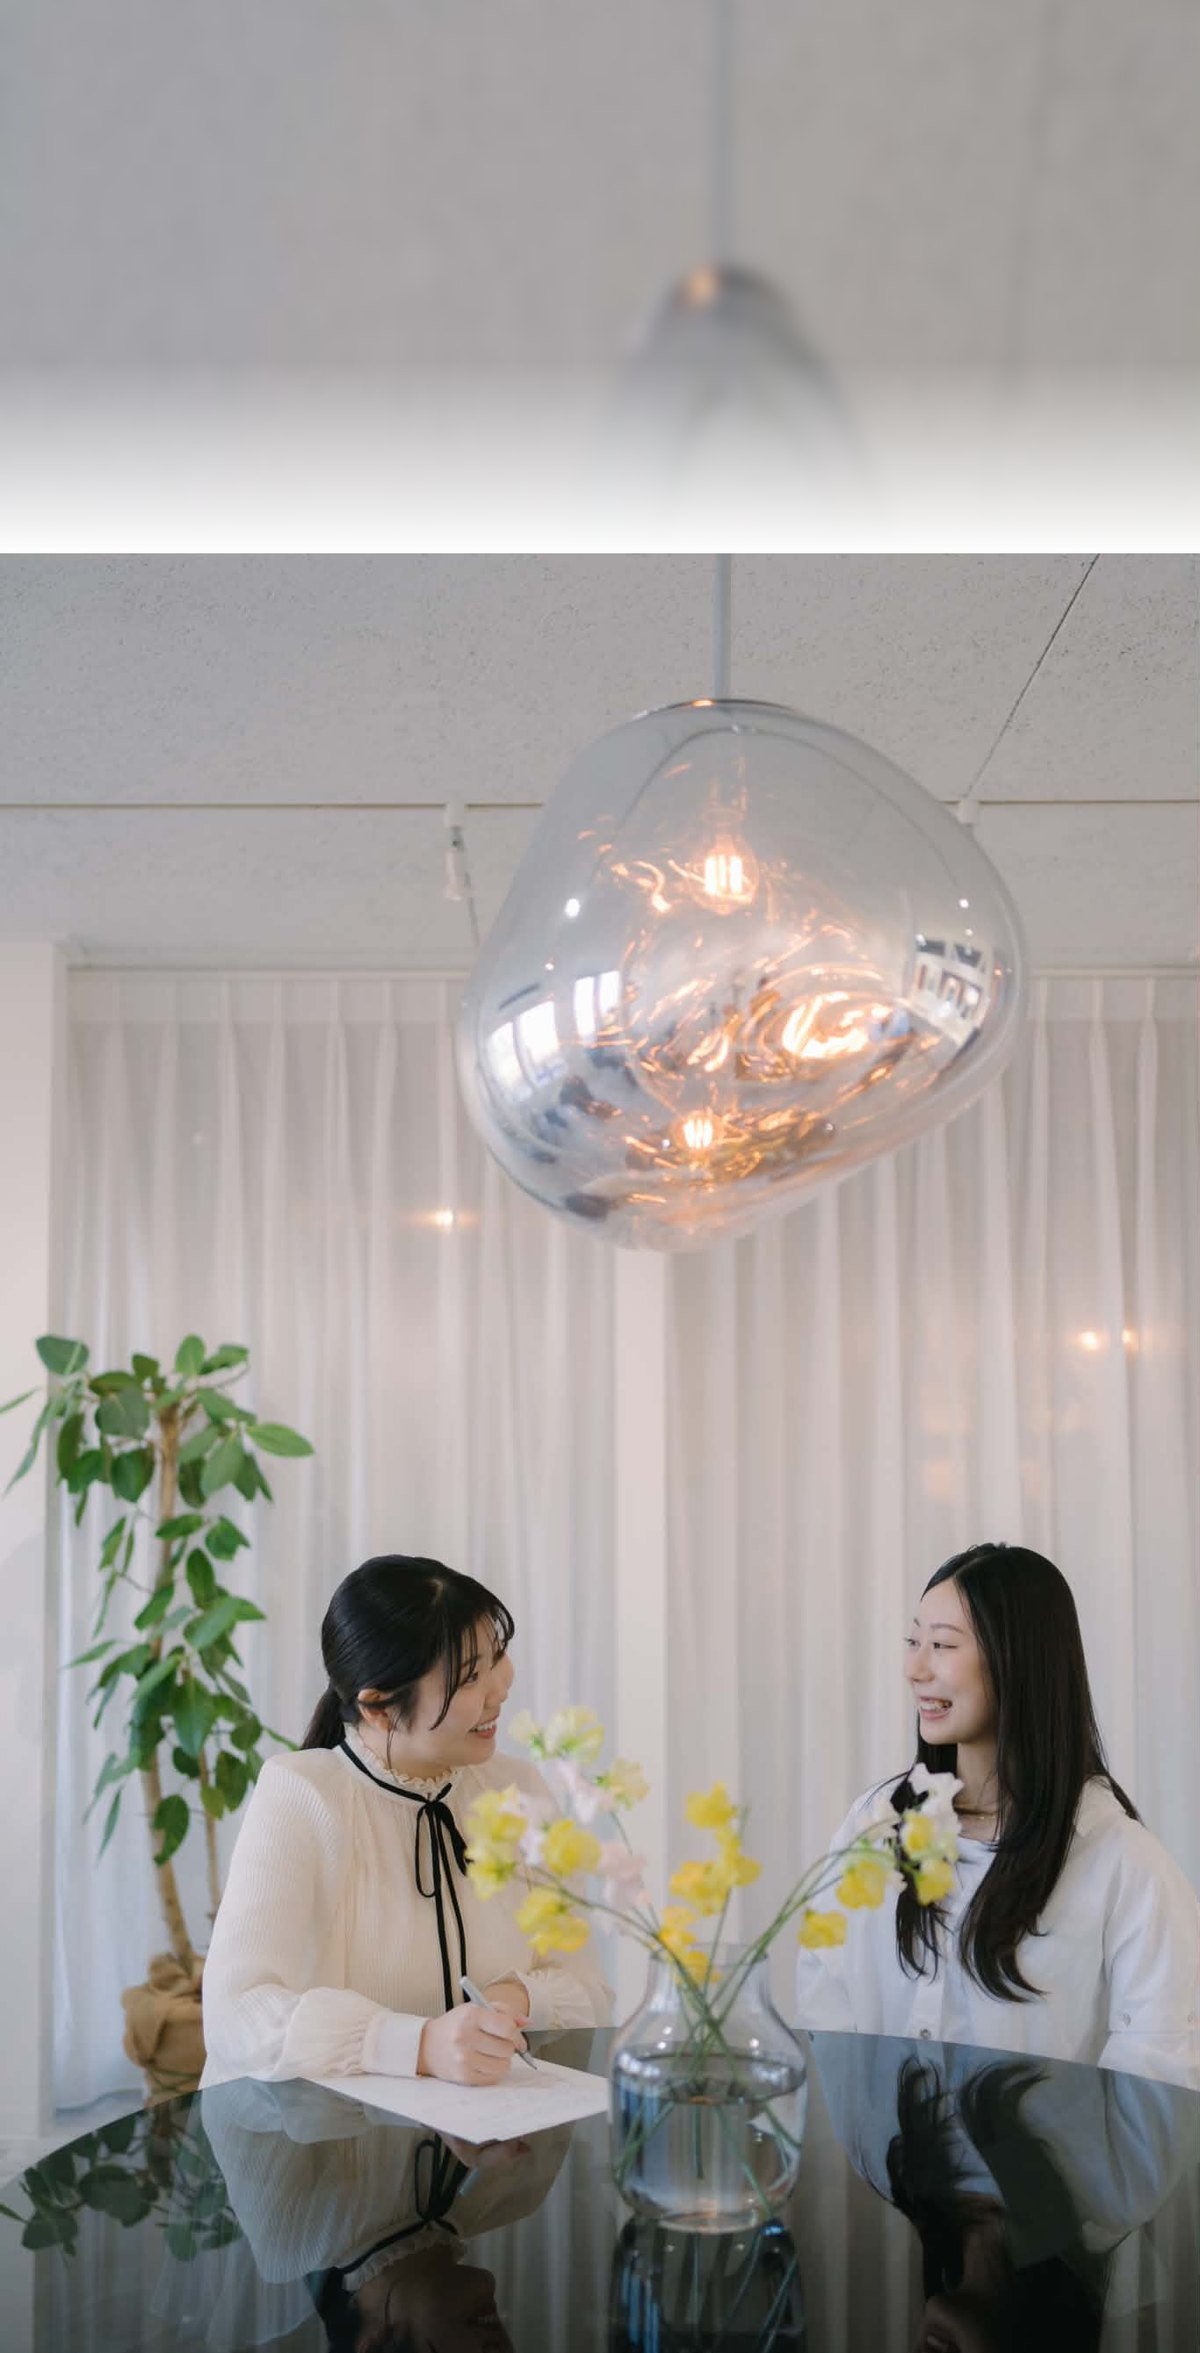
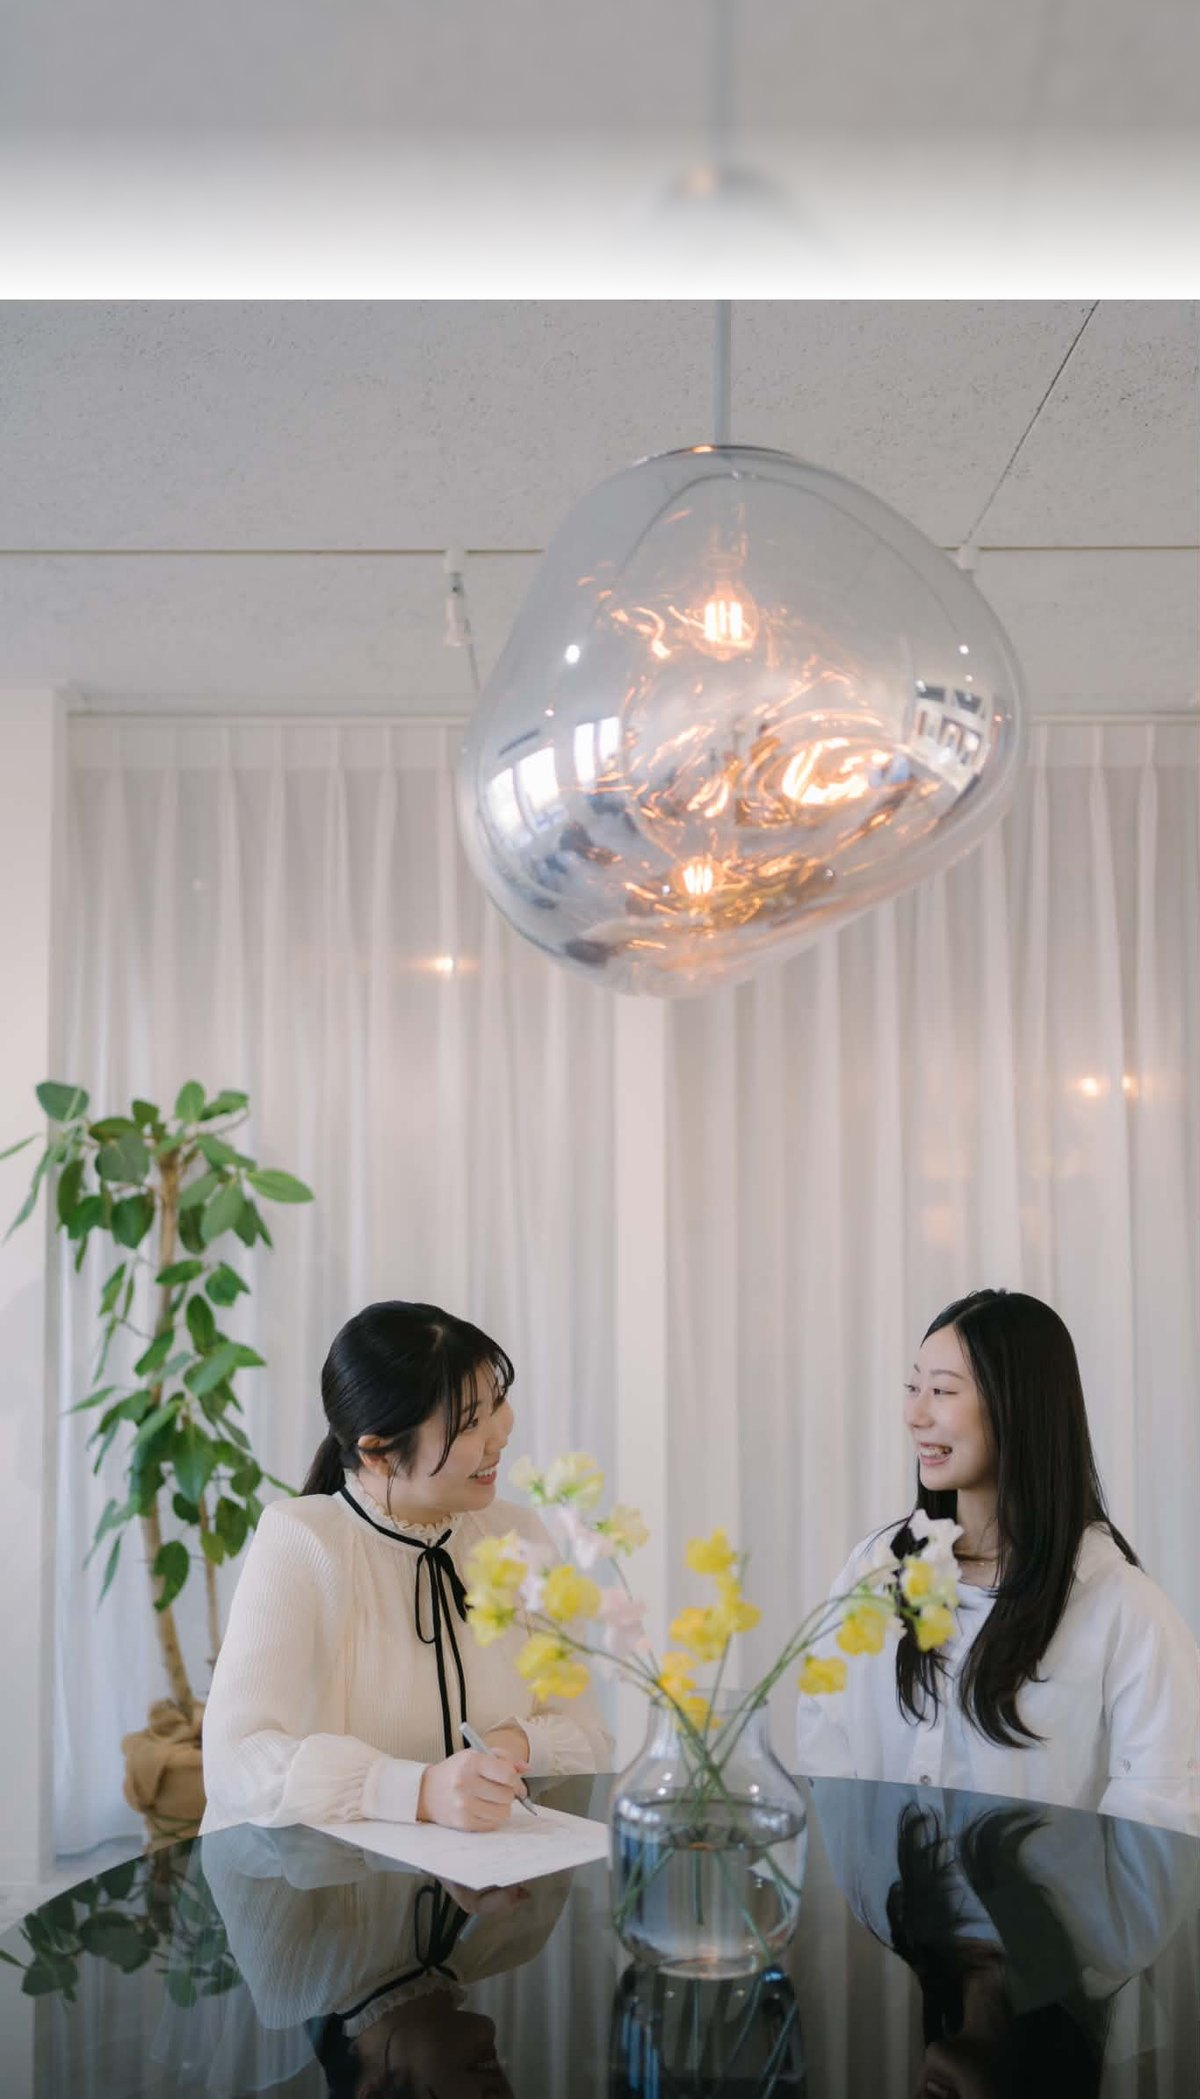
スマホのヒーローで人物を大きく＋横長タブレットの表示を修正
- スマホ用の写真の余白を詰めて 1200x2099 に。顔の位置が 74〜88% → 60〜75% になり、
  補足文（73〜81%）と重ならなくなった
- スマホ用の写真とヴェールを (orientation:portrait) に限定。
  横長のタブレットで縦長写真を使うと上下が大きく切れ、人物がヴェールの下に隠れていた

スマホ 375x731 で見出し 3.45 / リード 6.00 / 補足 5.19 / ラベル 6.00（全て基準以上）

diff --git a/wp-content/themes/ayou/style.css b/wp-content/themes/ayou/style.css
@@ -348,11 +348,6 @@ a:focus-visible,summary:focus-visible{outline:2px solid var(--aqua-deep); outlin
   .inner{padding:0 26px;}
 
   .hero{min-height:min(90vh,760px);}
-  .hero-veil{
-    background:linear-gradient(to bottom,
-      rgba(255,255,255,.96) 0%, rgba(255,255,255,.93) 50%,
-      rgba(255,255,255,.50) 68%, rgba(255,255,255,0) 88%);
-  }
   .hd{padding:24px 0 0;}
   .hd-in{gap:14px;}
   .hd nav{display:none;}
@@ -749,10 +744,17 @@ a.ph{text-decoration:none;}
 .ft-sns{margin-top:30px;}
 .ft-sns a{font-size:12px; letter-spacing:.14em; color:var(--aqua-deep); text-decoration:none; border-bottom:1px solid var(--aqua);}
 
-/* ヒーローの写真は PC とスマホで別のトリミングを使う */
+/* ヒーローの写真は PC とスマホで別のトリミングを使う。
+   スマホ用（縦長）は端末が縦向きのときだけ。横長のタブレットで使うと
+   上下が大きく切れ、人物がヴェールの下に隠れてしまう。 */
 .hero-media[style*="--hero"]{background-image:var(--hero); background-size:cover; background-position:center;}
-@media (max-width:900px){
+@media (max-width:900px) and (orientation:portrait){
   .hero-media[style*="--hero-sp"]{background-image:var(--hero-sp); background-position:center bottom;}
+  .hero-veil{
+    background:linear-gradient(to bottom,
+      rgba(255,255,255,.96) 0%, rgba(255,255,255,.93) 50%,
+      rgba(255,255,255,.50) 68%, rgba(255,255,255,0) 88%);
+  }
 }
 
 /* 地図の埋め込み */

diff --git a/counseling/index.html b/counseling/index.html
@@ -148,7 +148,7 @@ img:is([sizes=auto i],[sizes^="auto," i]){contain-intrinsic-size:3000px 1500px}
 			
 			<form class="form" action="/ayou-preview/wp-admin/admin-post.php" method="post">
 				<input type="hidden" name="action" value="ayou_inquiry">
-				<input type="hidden" id="ayou_inquiry_nonce" name="ayou_inquiry_nonce" value="8d0333565e" /><input type="hidden" name="_wp_http_referer" value="/counseling/" />
+				<input type="hidden" id="ayou_inquiry_nonce" name="ayou_inquiry_nonce" value="d517260529" /><input type="hidden" name="_wp_http_referer" value="/counseling/" />
 								<div class="hp" aria-hidden="true">
 					<label for="ayou_website">ウェブサイト</label>
 					<input type="text" id="ayou_website" name="ayou_website" tabindex="-1" autocomplete="off">
